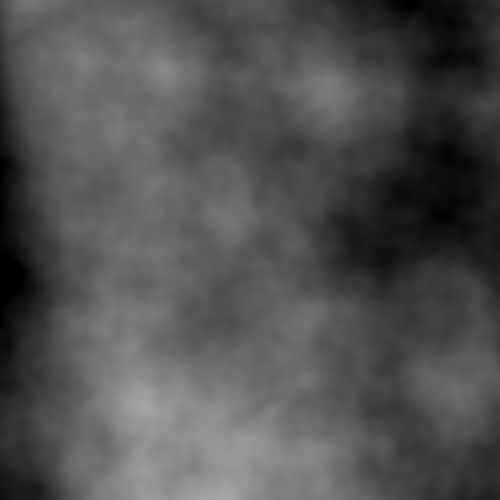
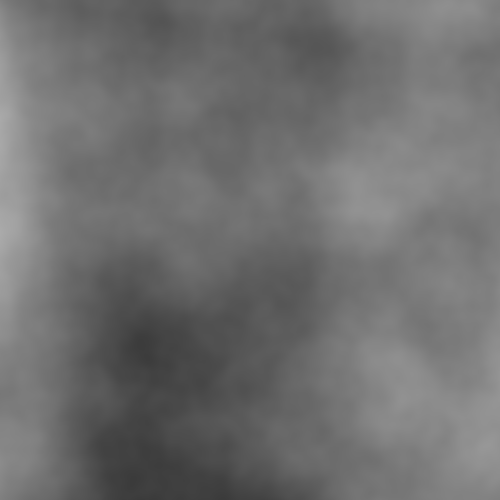
redesign

diff --git a/src/main.rs b/src/main.rs
@@ -15,7 +15,7 @@ fn generate(
     res: u32,
     seed: f32,
     offset: Vec2,
-    noises: &mut Vec<impl Noise>,
+    noise: &impl Noise,
     mut f: impl FnMut(u32, u32, Vec3),
 ) -> Vec<u8> {
     for iy in 0..res {
@@ -23,8 +23,10 @@ fn generate(
             let p = Vec2::new(ix as f32, iy as f32);
             let uv = p / res as f32 + offset;
 
-            let col = fbm(uv, noises, seed);
-
+            let mut col = fbm(uv, 6, noise, 0.5, 2.0, seed);
+            if noise.rescale_01() {
+                col = (col + 1.0) * 0.5;
+            }
             f(ix, iy, col);
         }
     }
@@ -36,19 +38,10 @@ fn main() {
     let res = 500;
     let mut imgbuf: ImageBuffer<Rgba<u8>, Vec<_>> = image::ImageBuffer::new(res, res);
 
-    // Multiple noises for different octaves.
-    let noises = &mut vec![
-        Perlin::new(1.),
-        Perlin::new(2.),
-        Perlin::new(4.),
-        Perlin::new(8.),
-        Perlin::new(16.),
-        Perlin::new(32.),
-    ];
-
     let a = 0.0f32; // 1 - inverse col, 0 - keep the exact col.
 
-    generate(res, 55., Vec2::new(0., 0.0), noises, |ix, iy, col| {
+    let noise_alg = Perlin::new();
+    generate(res, 25., Vec2::new(0., 0.0), &noise_alg, |ix, iy, col| {
         let pixel = imgbuf.get_pixel_mut(ix, iy);
 
         let rgb = mix_vec3(0., 255., (1. - col) * a + (1. - a) * col);

diff --git a/src/alg/value.rs b/src/alg/value.rs
@@ -2,19 +2,17 @@ use glam::{Vec2, Vec3};
 
 use crate::alg::{mix_f32, quintic, rand_f32, Noise};
 
-pub struct Value {
-    pub scale: f32,
-}
+pub struct Value {}
 
 impl Value {
-    pub fn new(scale: f32) -> Value {
-        Value { scale }
+    pub fn new() -> Value {
+        Value {}
     }
 }
 
 impl Noise for Value {
-    fn noise(&mut self, uv: Vec2, seed: f32) -> Vec3 {
-        let s_uv = uv * self.scale;
+    fn noise(&self, uv: Vec2, freq: f32, seed: f32) -> Vec3 {
+        let s_uv = uv * freq;
 
         let grid_id = s_uv.floor();
         let mut grid_uv = s_uv - grid_id;
@@ -34,8 +32,12 @@ impl Noise for Value {
         let t = mix_f32(grad_tl, grad_tr, grid_uv.x);
         let b = mix_f32(grad_bl, grad_br, grid_uv.x);
 
-        let noise = mix_f32(t, b, grid_uv.y) / 2.0;
+        let noise = mix_f32(t, b, grid_uv.y) * 0.5;
 
         Vec3::new(noise, noise, noise)
+    }
+    
+    fn rescale_01(&self) ->bool {
+        true
     }
 }

diff --git a/src/alg/perlin.rs b/src/alg/perlin.rs
@@ -2,19 +2,17 @@ use glam::{Vec2, Vec3};
 
 use crate::alg::{mix_f32, quintic, rand, Noise};
 
-pub struct Perlin {
-    pub scale: f32,
-}
+pub struct Perlin {}
 
 impl Perlin {
-    pub fn new(scale: f32) -> Perlin {
-        Perlin { scale }
+    pub fn new() -> Perlin {
+        Perlin {}
     }
 }
 
 impl Noise for Perlin {
-    fn noise(&mut self, uv: Vec2, seed: f32) -> Vec3 {
-        let s_uv = uv * self.scale;
+    fn noise(&self, uv: Vec2, freq: f32, seed: f32) -> Vec3 {
+        let s_uv = uv * freq;
 
         let grid_id = s_uv.floor();
         let mut grid_uv = s_uv - grid_id;
@@ -44,8 +42,12 @@ impl Noise for Perlin {
         let t = mix_f32(dot_tl, dot_tr, grid_uv.x);
         let b = mix_f32(dot_bl, dot_br, grid_uv.x);
 
-        let noise = mix_f32(t, b, grid_uv.y) + 0.1;
+        let noise = mix_f32(t, b, grid_uv.y);
 
         Vec3::new(noise, noise, noise)
+    }
+
+    fn rescale_01(&self) -> bool {
+        true
     }
 }

diff --git a/src/alg/worley.rs b/src/alg/worley.rs
@@ -1,19 +1,17 @@
 use crate::alg::{rand, Noise};
 use glam::{Vec2, Vec3};
 
-pub struct Worley {
-    scale: f32,
-}
+pub struct Worley {}
 
 impl Worley {
-    pub fn new(scale: f32) -> Worley {
-        Worley { scale }
+    pub fn new() -> Worley {
+        Worley {}
     }
 }
 
 impl Noise for Worley {
-    fn noise(&mut self, uv: Vec2, seed: f32) -> Vec3 {
-        let st = uv * self.scale;
+    fn noise(&self, uv: Vec2, freq: f32, seed: f32) -> Vec3 {
+        let st = uv * freq;
 
         let current_cell = st.floor();
 
@@ -34,5 +32,9 @@ impl Noise for Worley {
         }
 
         Vec3::new(min_dist, min_dist, min_dist)
+    }
+
+    fn rescale_01(&self) -> bool {
+        false
     }
 }

diff --git a/src/alg/fbm.rs b/src/alg/fbm.rs
@@ -2,13 +2,22 @@ use glam::{Vec2, Vec3};
 
 use crate::alg::Noise;
 
-pub fn fbm(v: Vec2, noises: &mut Vec<impl Noise>, seed: f32) -> Vec3 {
+pub fn fbm(
+    v: Vec2,
+    octaves: u16,
+    noise_alg: &impl Noise,
+    persistence: f32,
+    lacunarity: f32,
+    seed: f32,
+) -> Vec3 {
     let mut sum = Vec3::ZERO;
     let mut amplitude = 1.0;
+    let mut freq = 1.0;
 
-    for n in noises {
-        sum += n.noise(v, seed) * amplitude;
-        amplitude *= 0.5;
+    for n in 0..octaves {
+        sum += noise_alg.noise(v, freq, seed) * amplitude;
+        amplitude *= persistence;
+        freq *= lacunarity;
     }
     sum
 }

diff --git a/src/alg/mod.rs b/src/alg/mod.rs
@@ -34,7 +34,7 @@ pub fn rand(p: Vec2, seed: f32) -> Vec2 {
     noise = noise * 43758.5453;
 
     noise = Vec2::new(f32::sin(noise.x + seed), f32::sin(noise.y + seed));
-    return noise * 1.01;
+    return noise;
 }
 
 pub fn rand_f32(p: Vec2, seed: f32) -> f32 {
@@ -48,5 +48,6 @@ pub fn rand_f32(p: Vec2, seed: f32) -> f32 {
 }
 
 pub trait Noise {
-    fn noise(&mut self, uv: Vec2, seed: f32) -> Vec3;
+    fn noise(&self, uv: Vec2, freq: f32, seed: f32) -> Vec3;
+    fn rescale_01(&self) ->bool;
 }
